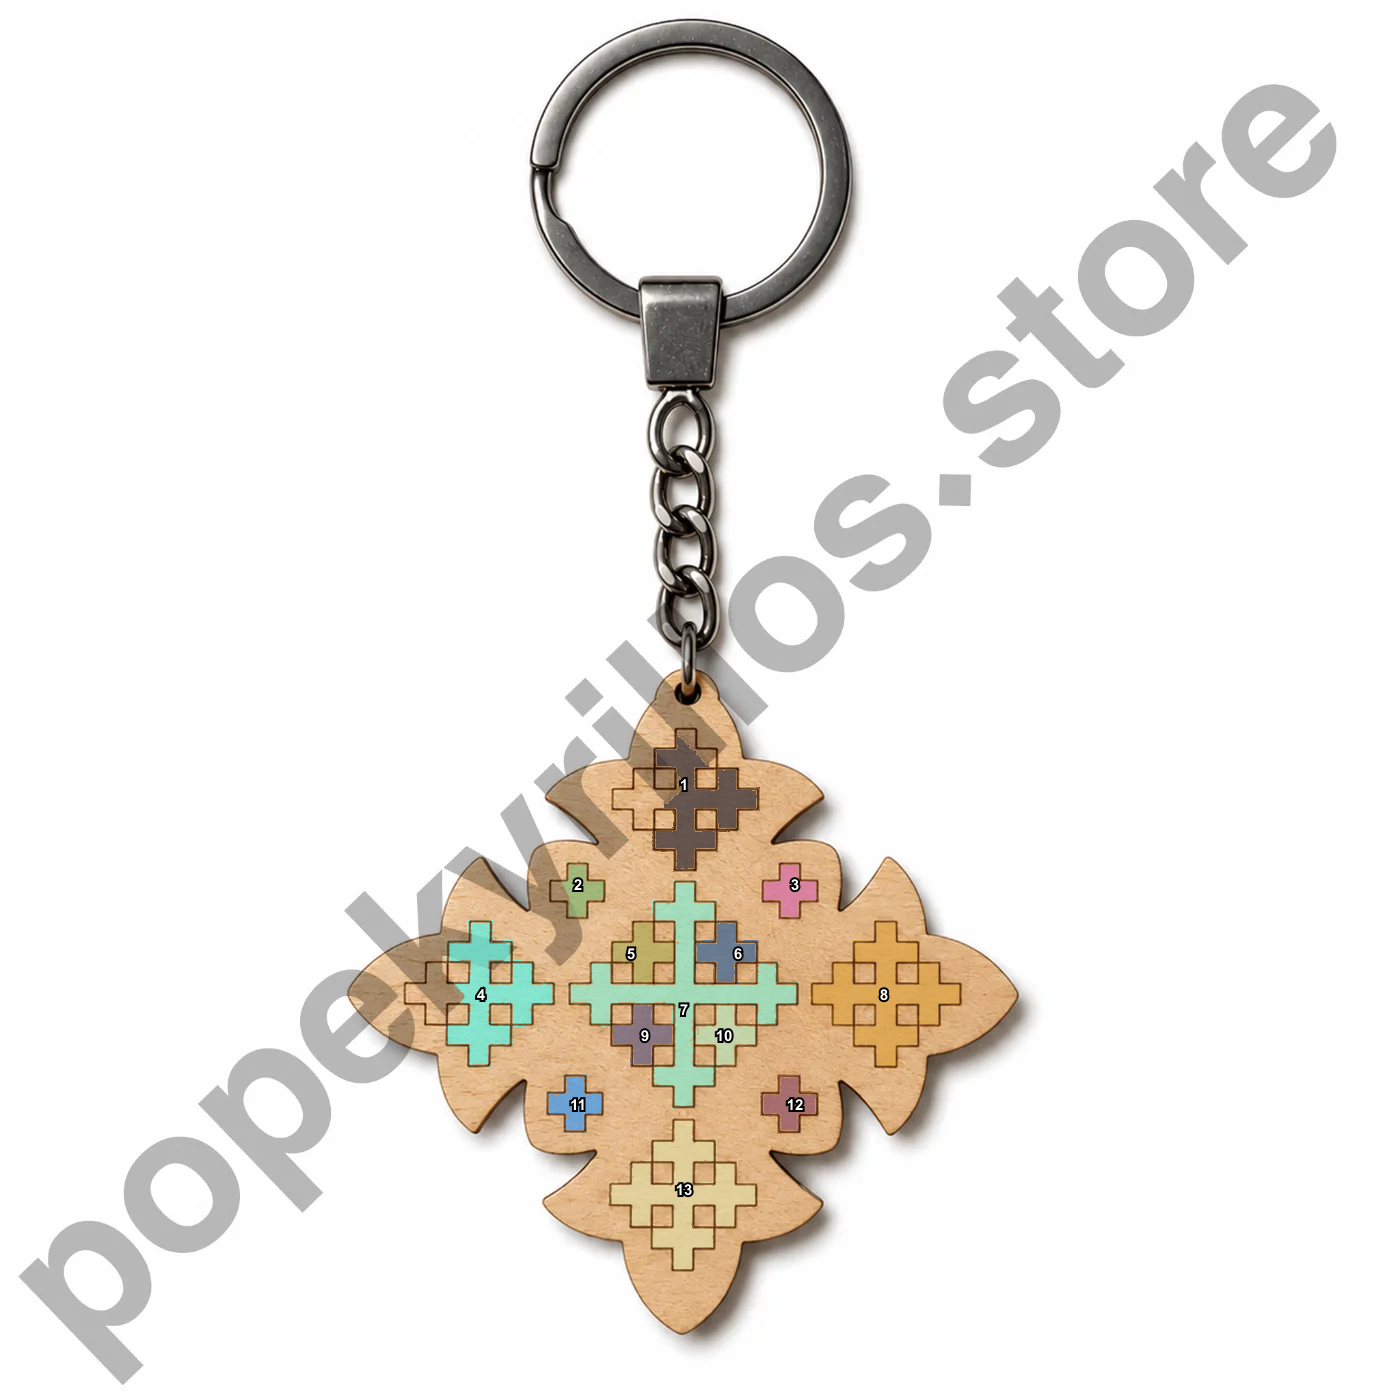
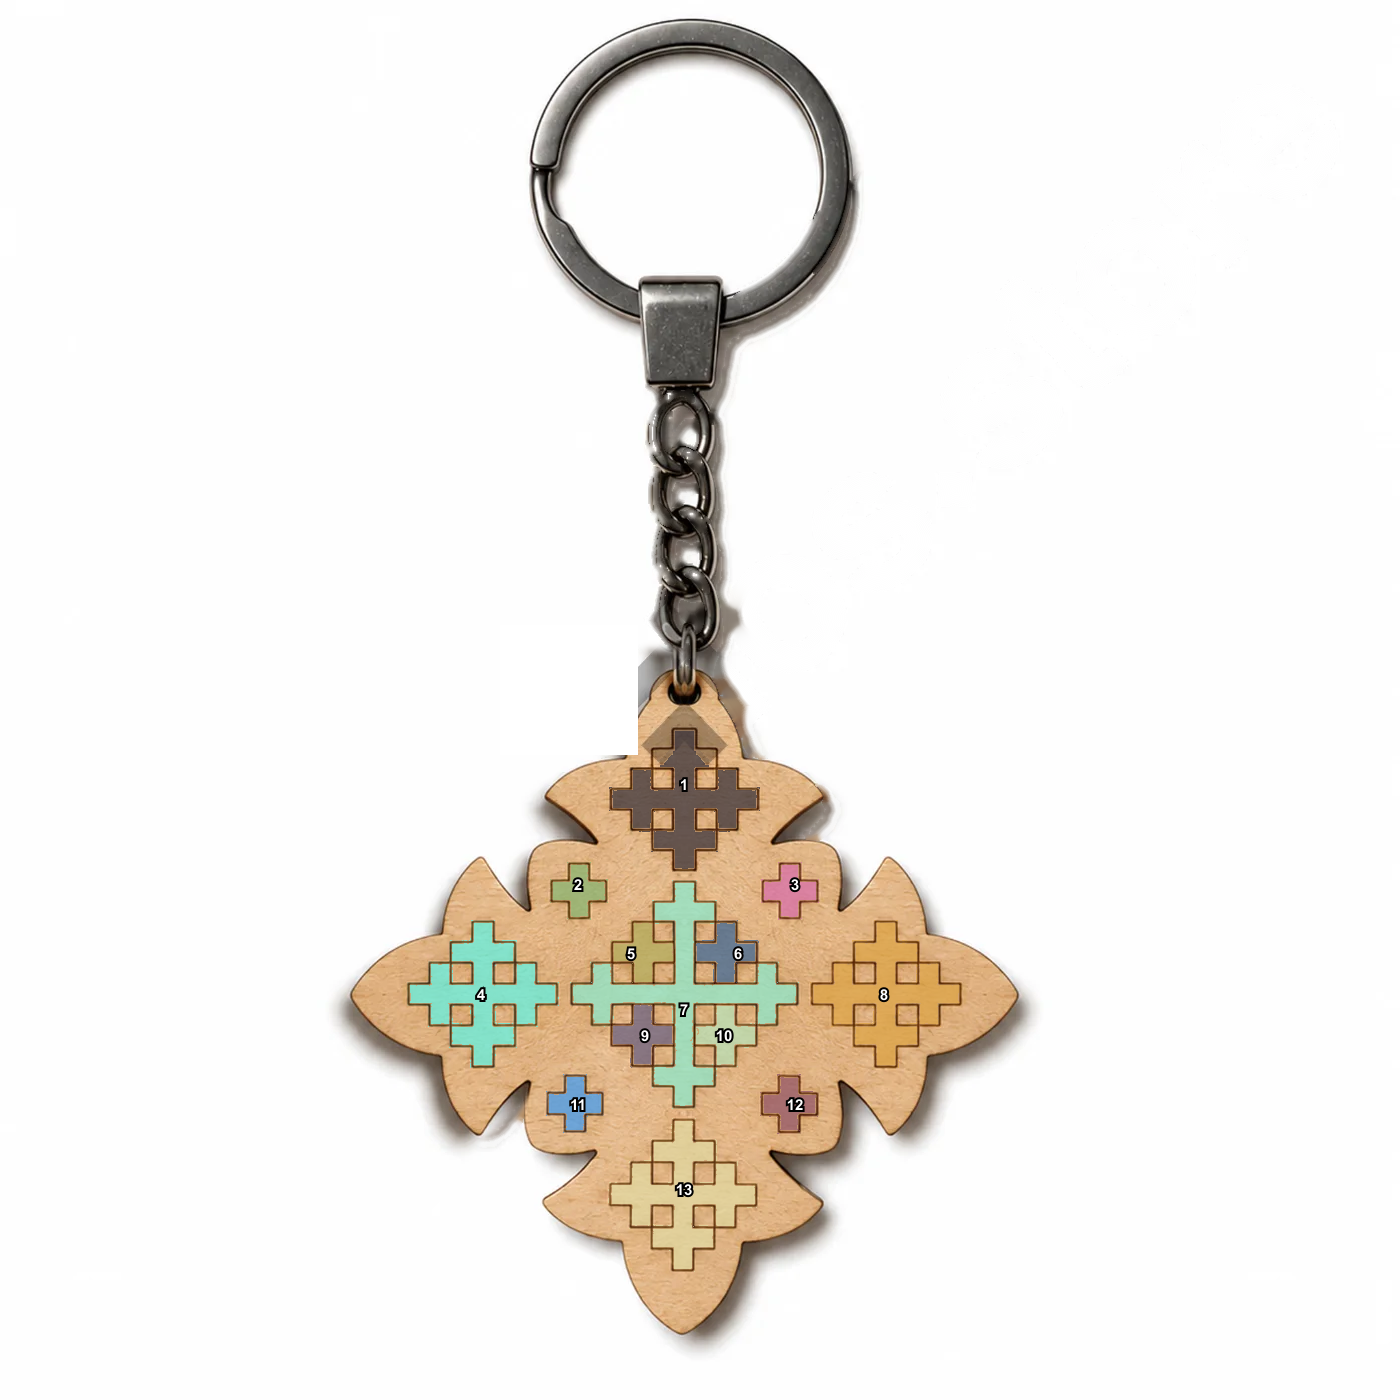
Remove baked watermark from Yota Model 3

diff --git a/coloringDesigns.js b/coloringDesigns.js
@@ -36,7 +36,7 @@ export const COLORING_DESIGNS = Object.freeze([
     regionOverridesPath: "/coloring/yota-03/region-overrides.json",
     enabled: true,
     status: "ready",
-    modelVersion: "yota-03-v6"
+    modelVersion: "yota-03-v7"
   }),
   Object.freeze({
     id: "yota-04",

diff --git a/scripts/clean-yota03-watermark.py b/scripts/clean-yota03-watermark.py
@@ -1,0 +1,79 @@
+from pathlib import Path
+import cv2
+import numpy as np
+from PIL import Image, ImageDraw, ImageFont
+
+ROOT = Path(__file__).resolve().parents[1]
+SOURCE = ROOT / "coloring" / "yota-03" / "plain-gallery-source.webp"
+OUT = ROOT / "reports" / "yota03-watermark-mask-preview.png"
+CANDIDATE_OUT = ROOT / "reports" / "yota03-watermark-detected-preview.png"
+CLEAN_OUT = ROOT / "coloring" / "yota-03" / "clean-base-source.png"
+
+bgr = cv2.imread(str(SOURCE), cv2.IMREAD_COLOR)
+rgb = cv2.cvtColor(bgr, cv2.COLOR_BGR2RGB)
+h, w = rgb.shape[:2]
+maximum = rgb.max(axis=2)
+minimum = rgb.min(axis=2)
+average = rgb.mean(axis=2)
+y, x = np.indices((h, w))
+band = ((x + y) > 1030) & ((x + y) < 1660)
+neutral_gray = ((maximum - minimum) < 15) & (average > 145) & (average < 238) & band
+candidate = (neutral_gray.astype(np.uint8) * 255)
+candidate = cv2.morphologyEx(candidate, cv2.MORPH_CLOSE, np.ones((3, 3), np.uint8))
+
+count, labels, stats, _ = cv2.connectedComponentsWithStats(candidate, 8)
+mask = np.zeros_like(candidate)
+for label in range(1, count):
+    left, top, width, height, area = stats[label]
+    if area >= 80 and (width >= 10 or height >= 10):
+        mask[labels == label] = 255
+
+mask = cv2.dilate(mask, np.ones((3, 3), np.uint8), iterations=1)
+best = None
+font_path = "C:/Windows/Fonts/arialbd.ttf"
+for font_size in range(120, 181, 4):
+    font = ImageFont.truetype(font_path, font_size)
+    bbox = font.getbbox("popekyrillos.store", stroke_width=0)
+    text_image = Image.new("L", (bbox[2] - bbox[0] + 20, bbox[3] - bbox[1] + 20), 0)
+    ImageDraw.Draw(text_image).text((10 - bbox[0], 10 - bbox[1]), "popekyrillos.store", font=font, fill=255)
+    for angle in range(43, 48):
+        template = np.array(text_image.rotate(angle, expand=True, resample=Image.Resampling.BICUBIC))
+        template = ((template > 36).astype(np.uint8) * 255)
+        if template.shape[0] > h or template.shape[1] > w:
+            continue
+        scores = cv2.matchTemplate(mask, template, cv2.TM_CCORR_NORMED)
+        _, score, _, location = cv2.minMaxLoc(scores)
+        if best is None or score > best[0]:
+            best = (score, location, template, font_size, angle)
+
+score, (left, top), text_template, font_size, angle = best
+text_mask = np.zeros_like(mask)
+text_mask[top:top + text_template.shape[0], left:left + text_template.shape[1]] = text_template
+text_mask = cv2.dilate(text_mask, np.ones((3, 3), np.uint8), iterations=1)
+preview = rgb.copy()
+preview[text_mask > 0] = (255, 0, 255)
+blend = cv2.addWeighted(rgb, 0.55, preview, 0.45, 0)
+cv2.imwrite(str(OUT), cv2.cvtColor(blend, cv2.COLOR_RGB2BGR))
+detected_preview = rgb.copy()
+detected_preview[mask > 0] = (255, 0, 255)
+detected_blend = cv2.addWeighted(rgb, 0.55, detected_preview, 0.45, 0)
+cv2.imwrite(str(CANDIDATE_OUT), cv2.cvtColor(detected_blend, cv2.COLOR_RGB2BGR))
+# The product and its engraved design are bilaterally symmetric. Use the clean
+# mirrored product pixel as the primary reconstruction source, then inpaint the
+# tiny centre-line overlap. The expanded type raster catches composited gray-
+# brown watermark pixels on wood that cannot be selected by gray thresholding.
+cleaned = cv2.inpaint(bgr, mask, 7, cv2.INPAINT_TELEA)
+mirror_x = np.clip((2 * 684) - np.arange(w), 0, w - 1)
+mirrored = bgr[:, mirror_x]
+# The only watermark pixels not neutral enough for the real-pixel selector are
+# those composited over the warm pendant. Reconstruct that diagonal corridor
+# from the corresponding clean right-hand half of this symmetric product.
+pendant_corridor = ((y > 650) & (x < 684) & ((x + y) > 1190) & ((x + y) < 1625)).astype(np.uint8) * 255
+alpha = cv2.GaussianBlur(pendant_corridor, (0, 0), 4).astype(np.float32) / 255.0
+alpha = alpha[:, :, None]
+cleaned = np.clip(cleaned.astype(np.float32) * (1 - alpha) + mirrored.astype(np.float32) * alpha, 0, 255).astype(np.uint8)
+# This small rectangle is pure outside background in the clean photograph; the
+# remaining gray arc here is the watermark's antialiased edge, not a shadow.
+cleaned[625:755, 500:638] = 255
+cv2.imwrite(str(CLEAN_OUT), cleaned)
+print({"detected_pixels": int((mask > 0).sum()), "template_pixels": int((text_mask > 0).sum()), "score": score, "font_size": font_size, "angle": angle, "left": left, "top": top, "preview": str(OUT)})
